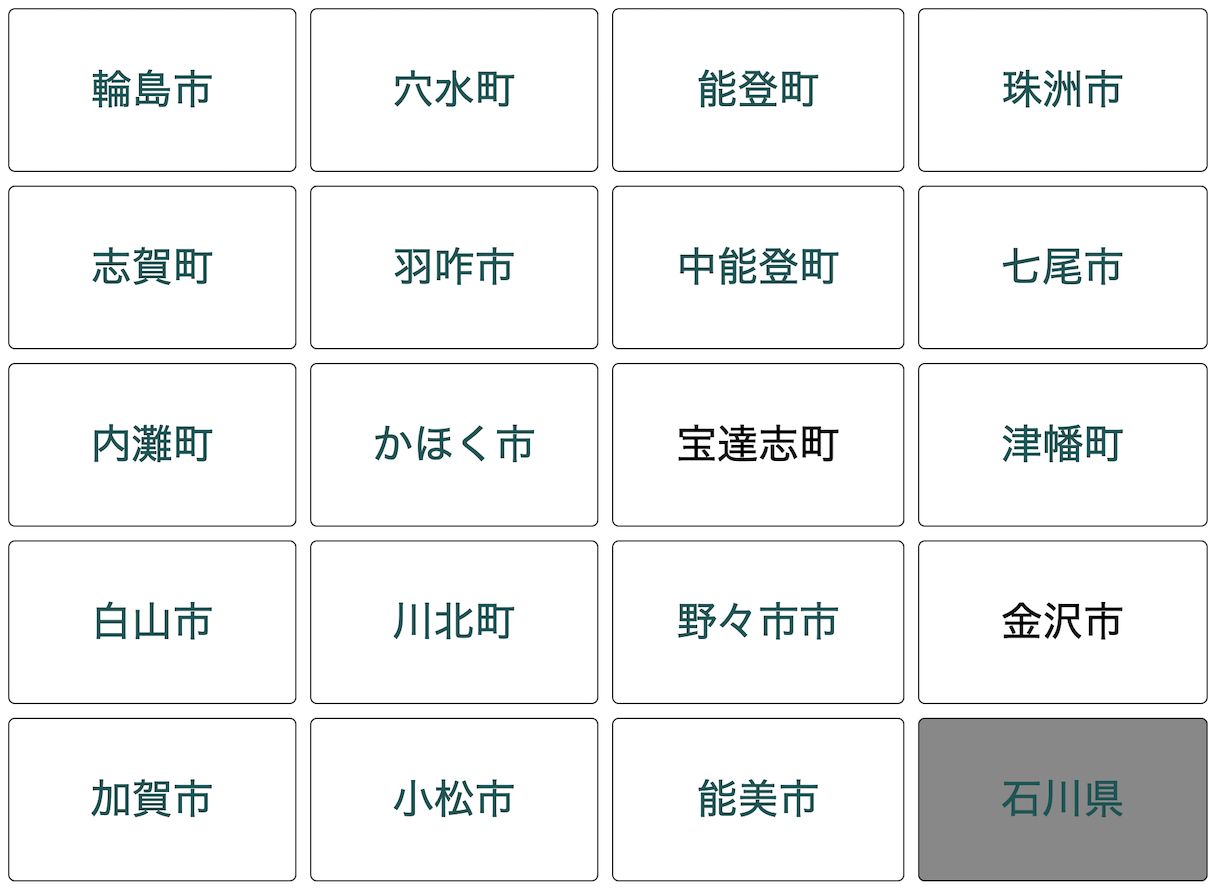
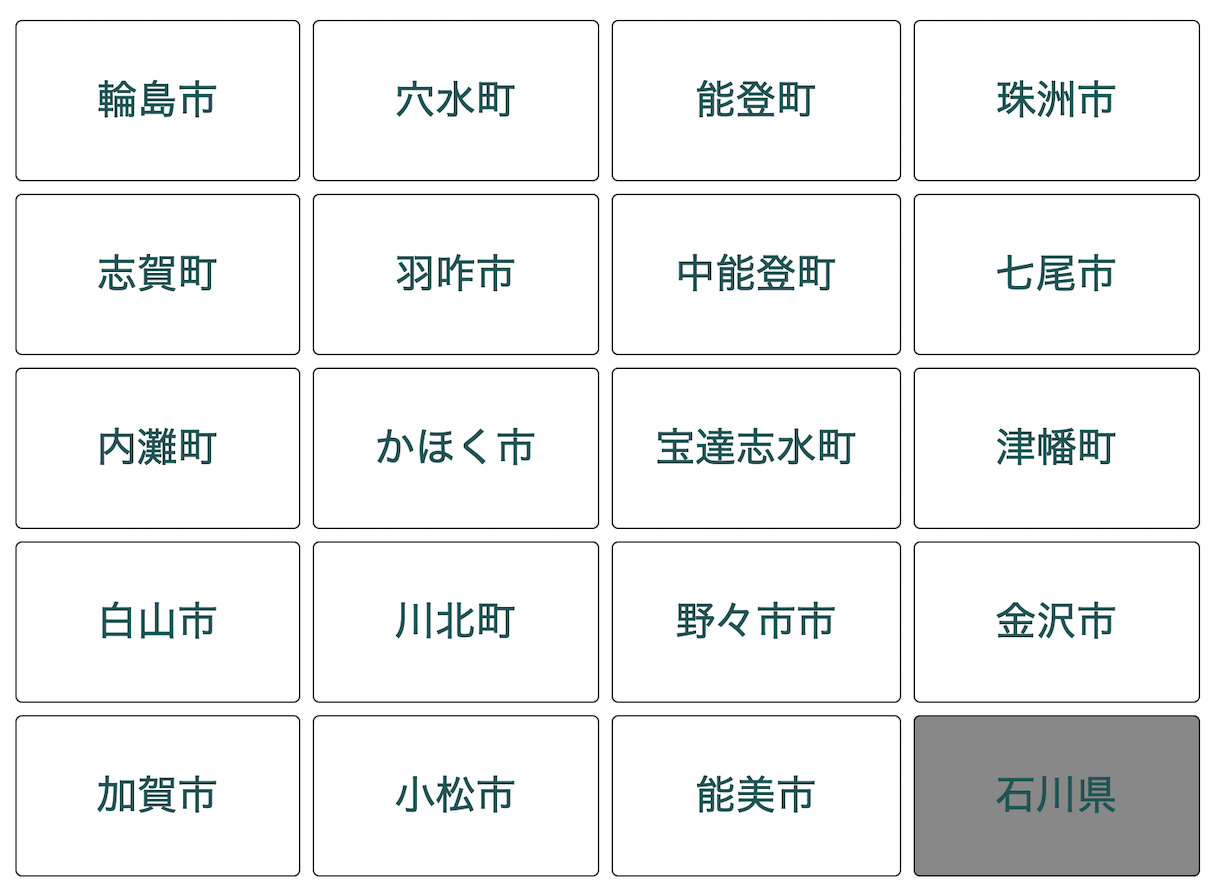
fixed ishikawa

diff --git a/ishikawa.html b/ishikawa.html
@@ -13,7 +13,7 @@
 const TABULARMAP_SRC = `
 輪島市	穴水町	能登町	珠洲市
 志賀町	羽咋市	中能登町	七尾市
-内灘町	かほく市	宝達志町	津幡町
+内灘町	かほく市	宝達志水町	津幡町
 白山市	川北町	野々市市	金沢市
 加賀市	小松市	能美市	`
 
